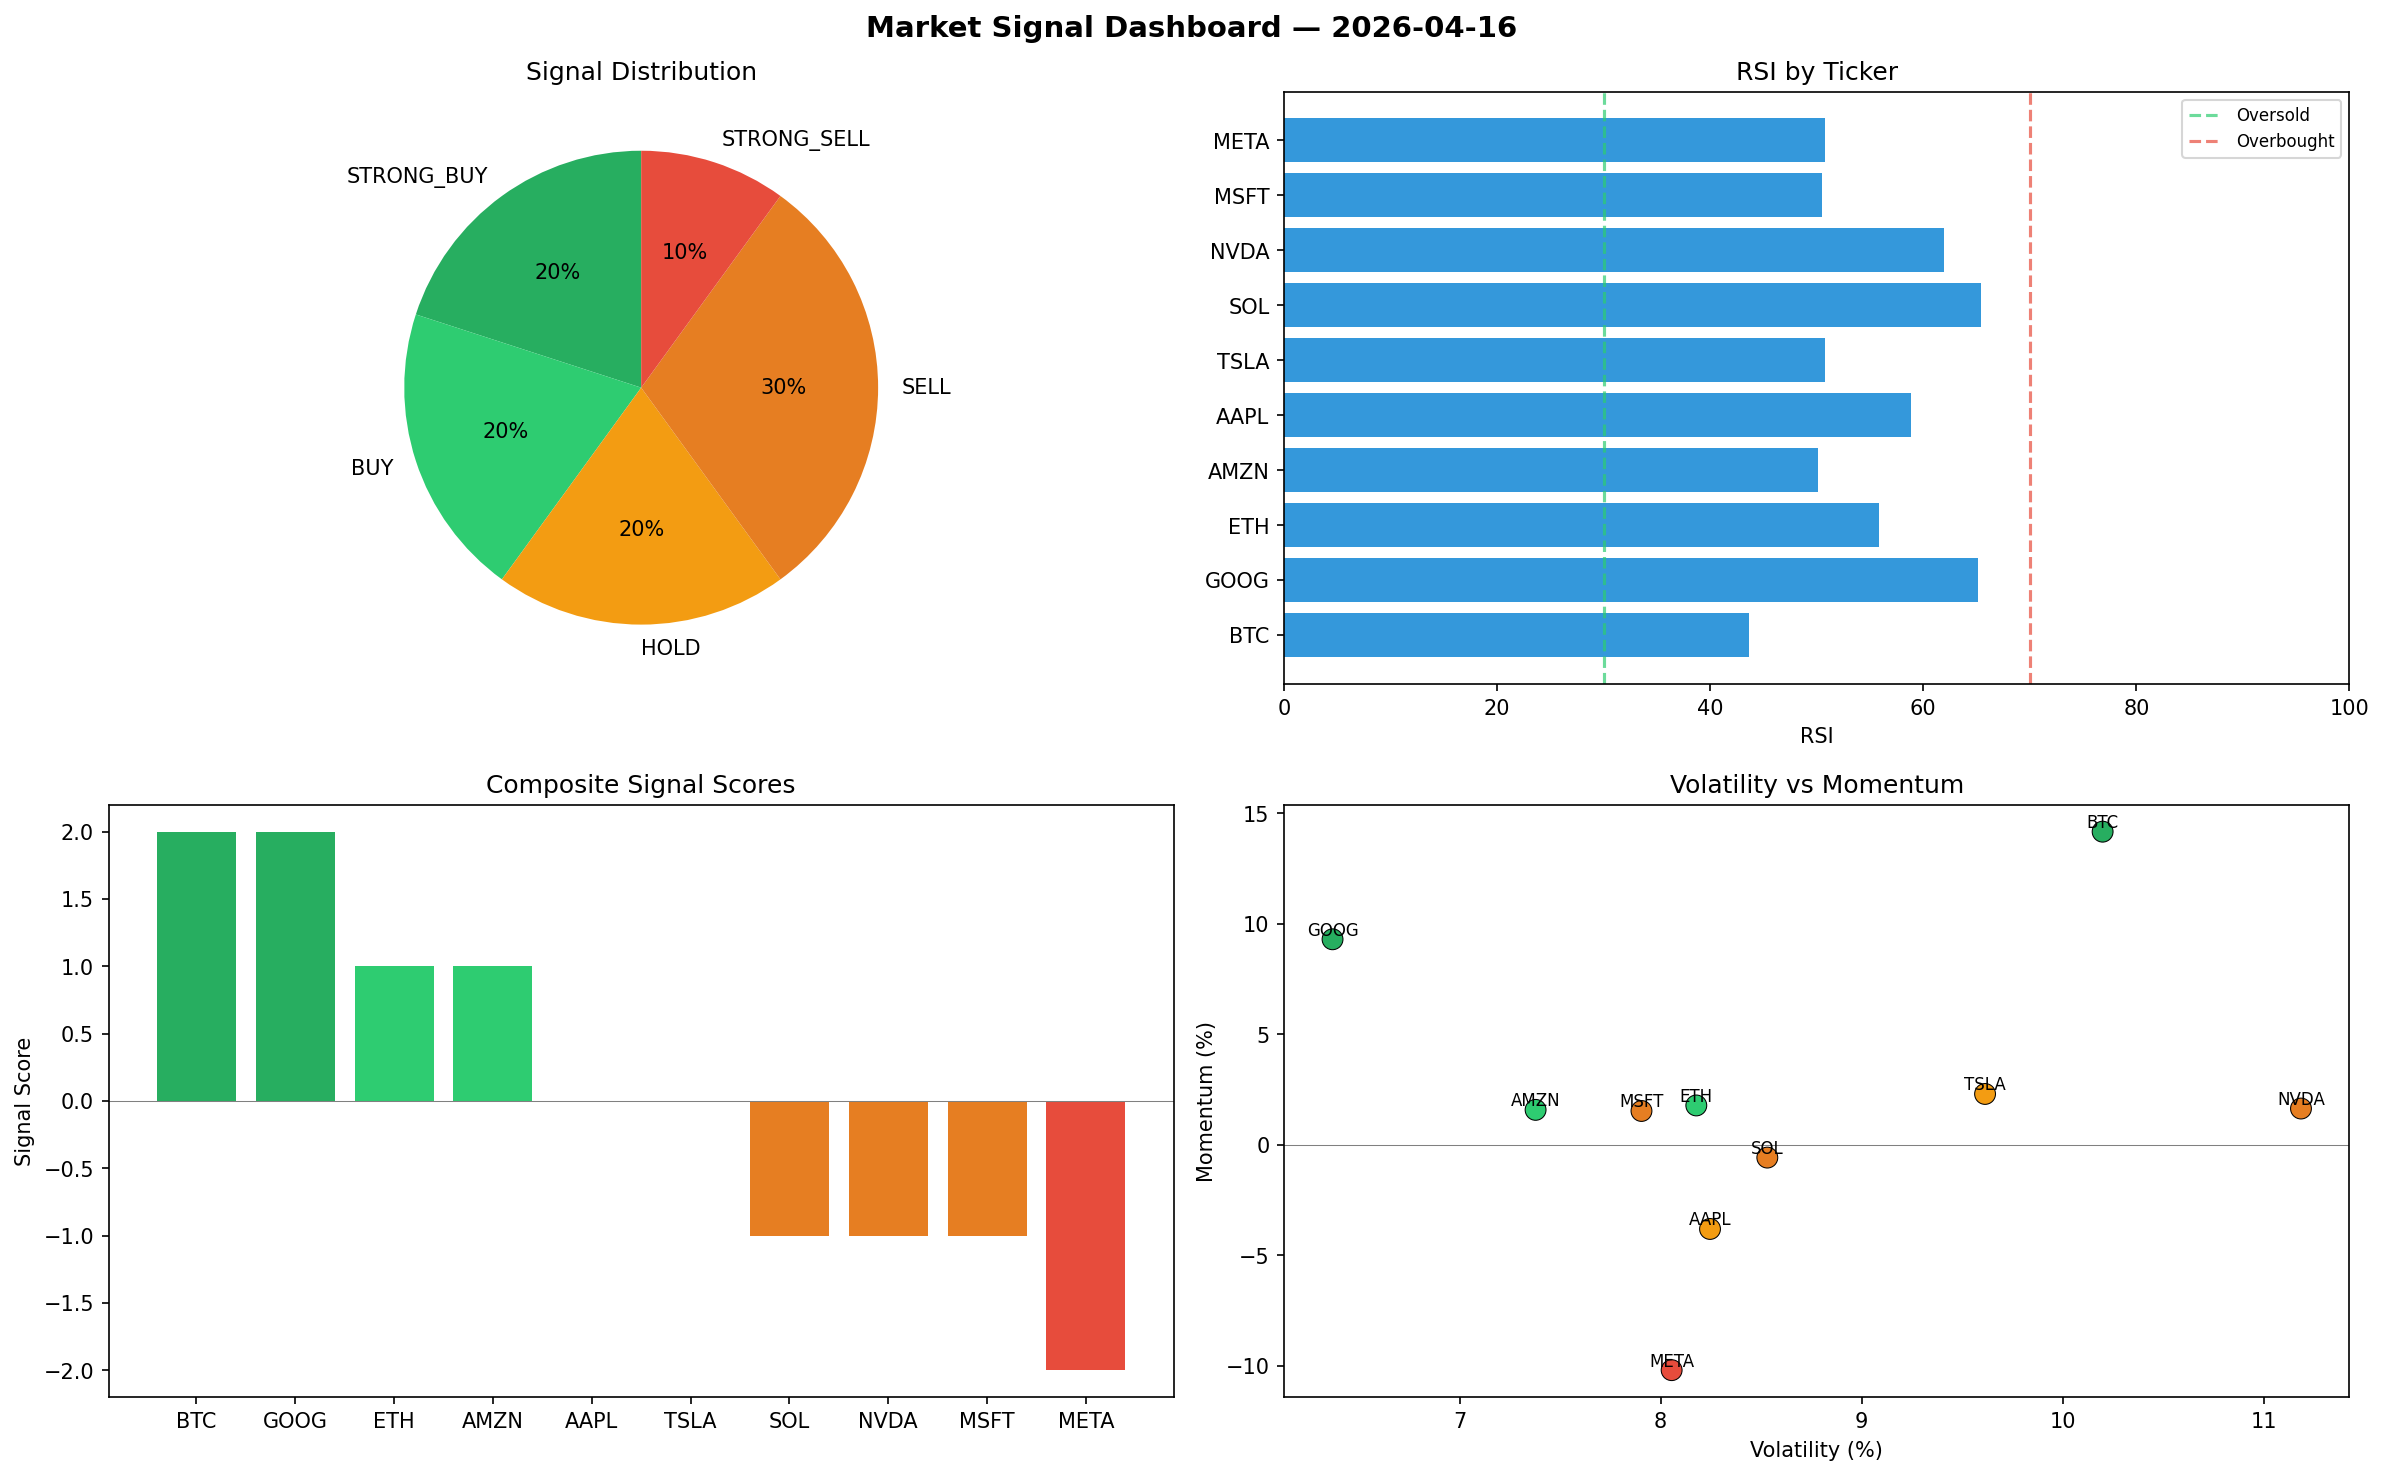
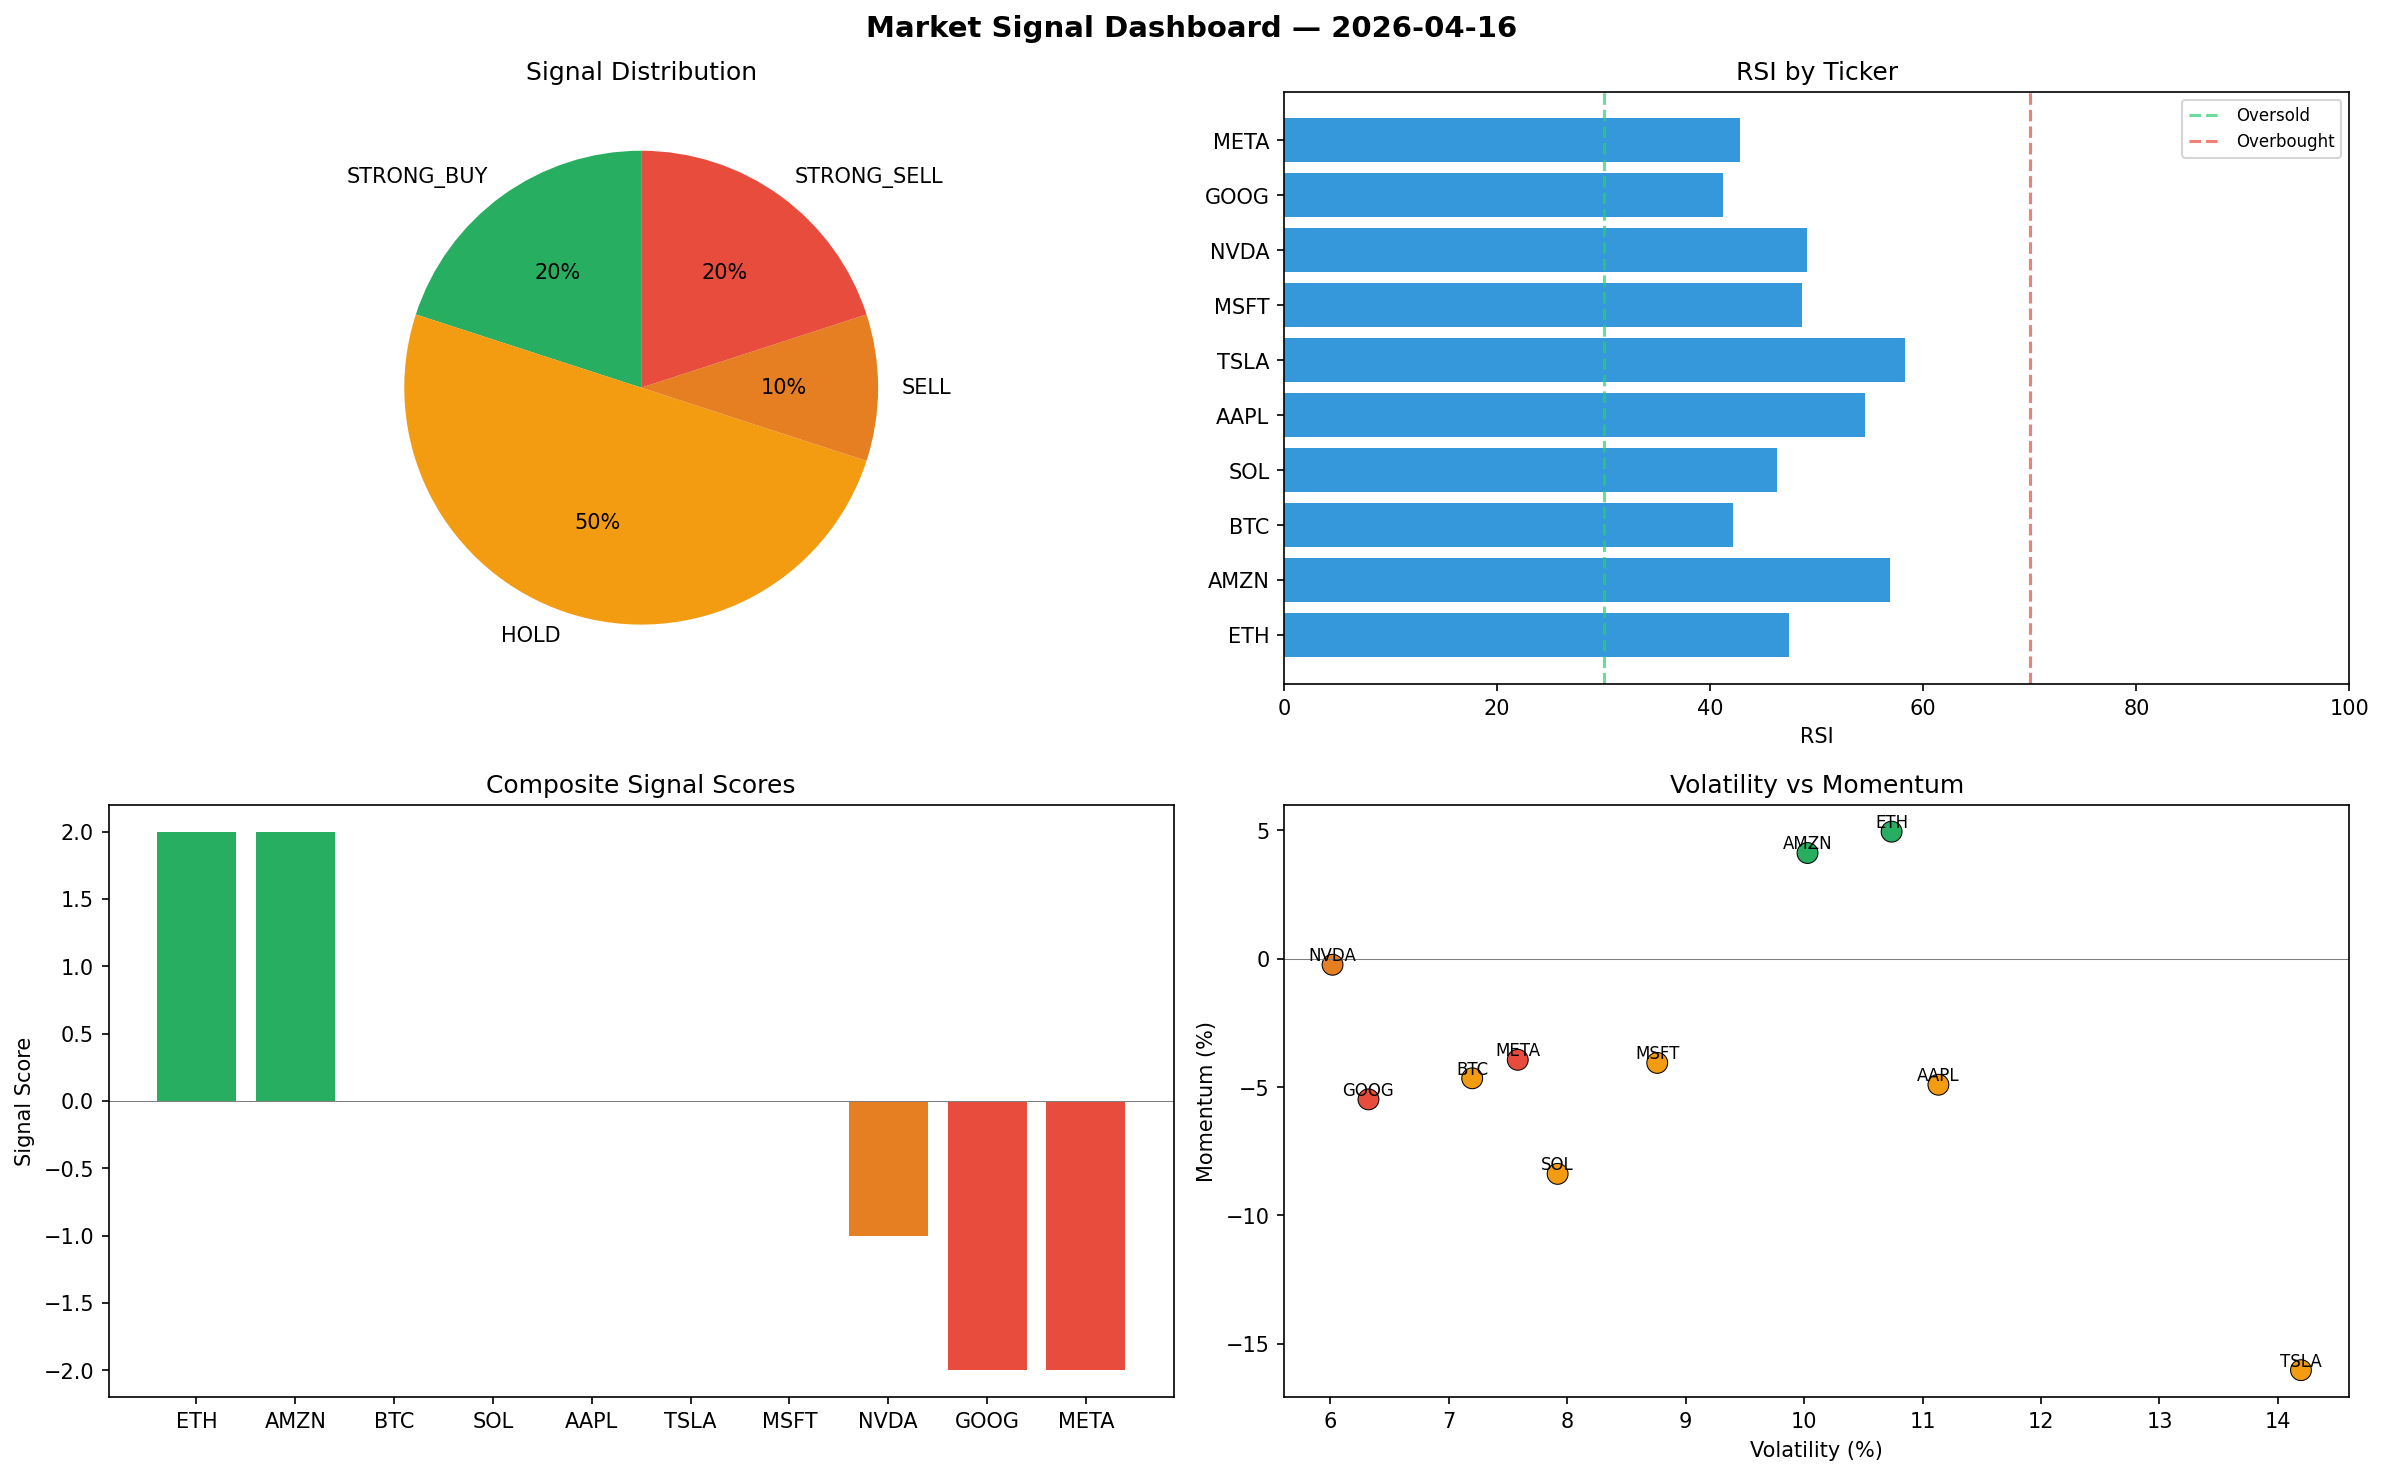
automated-bots: market signals 2026-04-16T09:54

diff --git a/logs/2026-04-16.md b/logs/2026-04-16.md
@@ -1,6 +1,6 @@
 # Market Signal Report — 2026-04-16
 
-**Run ID:** `27e371f5a0` | **Buy:** 4 | **Sell:** 4 | **Hold:** 2
+**Run ID:** `5b94ed9b9f` | **Buy:** 2 | **Sell:** 3 | **Hold:** 5
 
 ![Dashboard](2026-04-16_dashboard.png)
 
@@ -8,28 +8,28 @@
 
 | Ticker | Price | Signal | Score | RSI | Momentum | Confidence |
 |--------|-------|--------|-------|-----|----------|------------|
-| BTC | $2971.99 | **STRONG_BUY** | 2 | 43.67 | 0.1416 | 0.5 |
-| GOOG | $3865.58 | **STRONG_BUY** | 2 | 65.15 | 0.0929 | 0.5 |
-| ETH | $2660.65 | **BUY** | 1 | 55.86 | 0.0177 | 0.25 |
-| AMZN | $1000.37 | **BUY** | 1 | 50.15 | 0.0157 | 0.25 |
-| AAPL | $1396.73 | **HOLD** | 0 | 58.83 | -0.0382 | 0.0 |
-| TSLA | $745.31 | **HOLD** | 0 | 50.76 | 0.0229 | 0.0 |
-| SOL | $2497.23 | **SELL** | -1 | 65.4 | -0.0059 | 0.25 |
-| NVDA | $4657.08 | **SELL** | -1 | 61.96 | 0.0163 | 0.25 |
-| MSFT | $4173.72 | **SELL** | -1 | 50.52 | 0.0152 | 0.25 |
-| META | $3152.62 | **STRONG_SELL** | -2 | 50.73 | -0.1021 | 0.5 |
+| ETH | $3271.88 | **STRONG_BUY** | 2 | 47.41 | 0.0494 | 0.5 |
+| AMZN | $1908.01 | **STRONG_BUY** | 2 | 56.83 | 0.0411 | 0.5 |
+| BTC | $2446.09 | **HOLD** | 0 | 42.13 | -0.0466 | 0.0 |
+| SOL | $786.2 | **HOLD** | 0 | 46.28 | -0.0838 | 0.0 |
+| AAPL | $1518.15 | **HOLD** | 0 | 54.49 | -0.0491 | 0.0 |
+| TSLA | $2288.23 | **HOLD** | 0 | 58.25 | -0.1602 | 0.0 |
+| MSFT | $4849.42 | **HOLD** | 0 | 48.61 | -0.0406 | 0.0 |
+| NVDA | $5510.25 | **SELL** | -1 | 49.12 | -0.0024 | 0.25 |
+| GOOG | $2760.95 | **STRONG_SELL** | -2 | 41.24 | -0.0548 | 0.5 |
+| META | $3185.57 | **STRONG_SELL** | -2 | 42.77 | -0.0394 | 0.5 |
 
 ## Delta vs Yesterday
 
 | Ticker | Today | Yesterday | Price Change | Signal Changed |
 |--------|-------|-----------|-------------|----------------|
-| BTC | STRONG_BUY | STRONG_BUY | 📉 -20.19% | — |
-| GOOG | STRONG_BUY | STRONG_SELL | 📈 139.38% | ⚠ YES |
-| ETH | BUY | STRONG_SELL | 📈 6.48% | ⚠ YES |
-| AMZN | BUY | STRONG_BUY | 📉 -78.28% | ⚠ YES |
-| AAPL | HOLD | STRONG_SELL | 📈 225.51% | ⚠ YES |
-| TSLA | HOLD | SELL | 📈 53.56% | ⚠ YES |
-| SOL | SELL | SELL | 📉 -25.38% | — |
-| NVDA | SELL | STRONG_BUY | 📈 3306.04% | ⚠ YES |
-| MSFT | SELL | STRONG_SELL | 📈 15.69% | ⚠ YES |
-| META | STRONG_SELL | STRONG_SELL | 📉 -22.61% | — |
+| ETH | STRONG_BUY | STRONG_SELL | 📈 30.95% | ⚠ YES |
+| AMZN | STRONG_BUY | STRONG_BUY | 📉 -58.58% | — |
+| BTC | HOLD | STRONG_BUY | 📉 -34.32% | ⚠ YES |
+| SOL | HOLD | SELL | 📉 -76.51% | ⚠ YES |
+| AAPL | HOLD | STRONG_SELL | 📈 253.81% | ⚠ YES |
+| TSLA | HOLD | SELL | 📈 371.47% | ⚠ YES |
+| MSFT | HOLD | STRONG_SELL | 📈 34.42% | ⚠ YES |
+| NVDA | SELL | STRONG_BUY | 📈 3930.02% | ⚠ YES |
+| GOOG | STRONG_SELL | STRONG_SELL | 📈 70.97% | — |
+| META | STRONG_SELL | STRONG_SELL | 📉 -21.81% | — |
